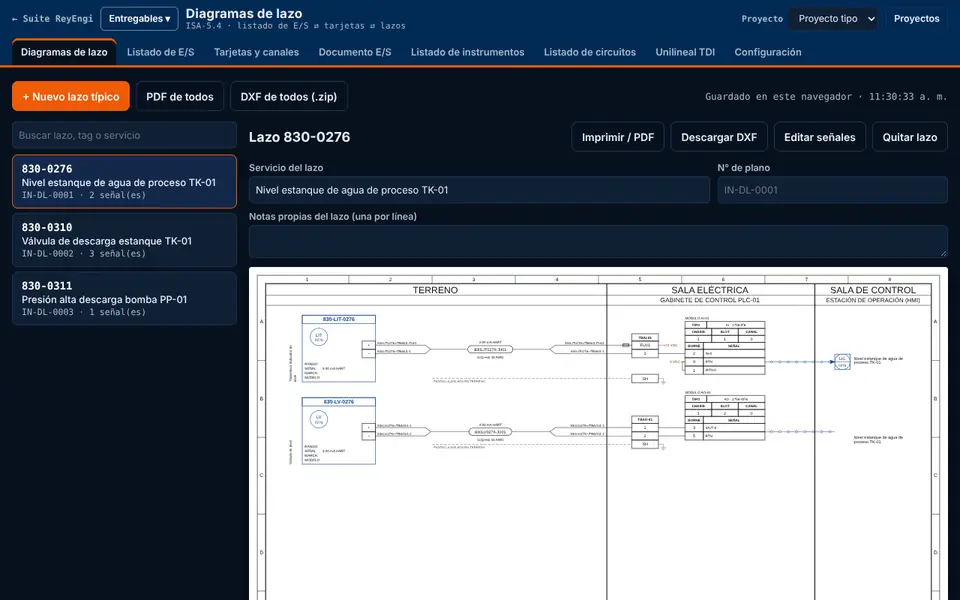
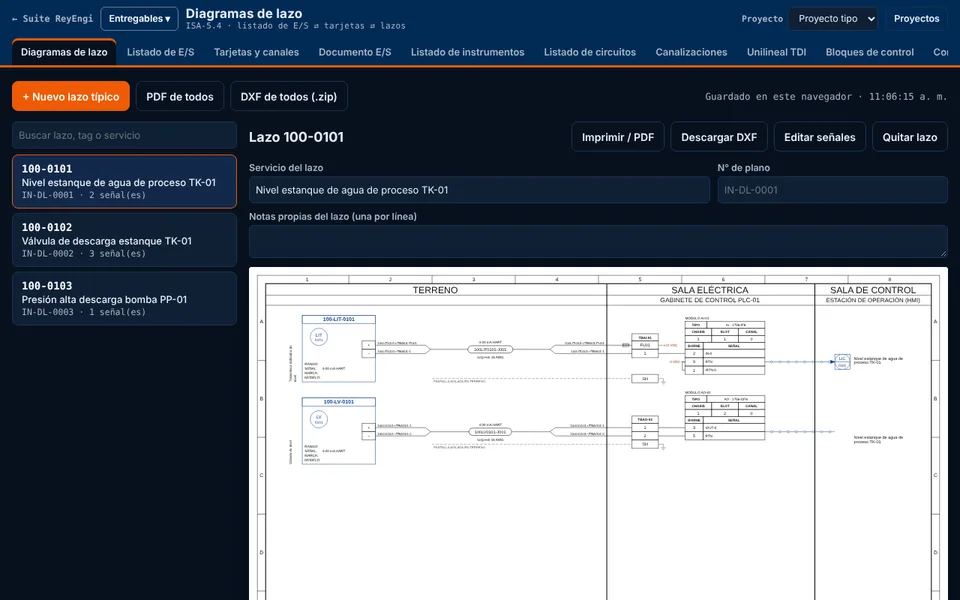
Aviso Suite ReyEngi con vistas previas; tags de demostración genéricos
- Aviso de la Suite ReyEngi (app Conduit y vista previa): miniaturas de diagrama de lazo, unilineal, detalle
  de montaje y documento, que se amplían al tocarlas
- Proyecto de demostración con tags genéricos (100-LIT-0101…) y ejemplos de ISA y hojas de datos sin códigos
  de proyectos reales; capturas de lazo, unilineal y listado regeneradas. sw visores-v103

Claude-Session: https://claude.ai/code/session_01EYaF9ibwybBPN96V5rGCY1

diff --git a/visores/lazos/app.js b/visores/lazos/app.js
@@ -35,9 +35,9 @@
   function ejemplo() {
     var d = { cfg: Object.assign({}, CFG0), modulos: [], senales: [], lazos: {}, revs: [{ rev: 'A', fecha: P.hoy ? P.hoy() : '', desc: 'EMITIDO PARA COORDINACIÓN INTERNA', por: '' }], over: {} };
     E = d;
-    crearTipico('ctrl', { area: '830', num: '0276', v: 'L', servicio: 'Nivel estanque de agua de proceso TK-01' }, true);
-    crearTipico('onoff', { area: '830', num: '0310', v: 'X', servicio: 'Válvula de descarga estanque TK-01' }, true);
-    crearTipico('sw', { area: '830', num: '0311', v: 'P', servicio: 'Presión alta descarga bomba PP-01' }, true);
+    crearTipico('ctrl', { area: '100', num: '0101', v: 'L', servicio: 'Nivel estanque de agua de proceso TK-01' }, true);
+    crearTipico('onoff', { area: '100', num: '0102', v: 'X', servicio: 'Válvula de descarga estanque TK-01' }, true);
+    crearTipico('sw', { area: '100', num: '0103', v: 'P', servicio: 'Presión alta descarga bomba PP-01' }, true);
     asignarAuto();
     return d;
   }
@@ -254,7 +254,7 @@
   var CAMPOS_CFG = [
     { g: 'Sistema de control', c: [{ k: 'proveedor', l: 'Proveedor / plataforma', prov: 1 }, { k: 'modelos.AI', l: 'Tarjeta AI por defecto', tipo: 'AI' }, { k: 'modelos.AO', l: 'Tarjeta AO por defecto', tipo: 'AO' }, { k: 'modelos.DI', l: 'Tarjeta DI por defecto', tipo: 'DI' }, { k: 'modelos.DO', l: 'Tarjeta DO por defecto', tipo: 'DO' }, { k: 'chasis', l: 'Chasis / rack por defecto' }, { k: 'slotInicial', l: 'Primer slot de E/S' }] },
     { g: 'Zonas del diagrama', c: [{ k: 'zonaTerreno', l: 'Zona de terreno' }, { k: 'zonaSala', l: 'Sala eléctrica' }, { k: 'gabinete', l: 'Gabinete' }, { k: 'zonaControl', l: 'Sala de control' }, { k: 'hmi', l: 'Estación de operación' }] },
-    { g: 'Planos y referencias', c: [{ k: 'prefijoPlano', l: 'Prefijo del N° de plano (ej. 3450-IN-DL-)' }, { k: 'primerPlano', l: 'Primer número correlativo' }, { k: 'prefijoUni', l: 'Prefijo del N° de plano unilineal (TDI)' }, { k: 'docIO', l: 'Listado de E/S (N° documento)' }, { k: 'docInst', l: 'Listado de instrumentos (N° documento)' }, { k: 'docCables', l: 'Listado de circuitos (N° documento)' }, { k: 'docPid', l: 'P&ID de referencia' }] },
+    { g: 'Planos y referencias', c: [{ k: 'prefijoPlano', l: 'Prefijo del N° de plano (ej. RE-001-IN-DL-)' }, { k: 'primerPlano', l: 'Primer número correlativo' }, { k: 'prefijoUni', l: 'Prefijo del N° de plano unilineal (TDI)' }, { k: 'docIO', l: 'Listado de E/S (N° documento)' }, { k: 'docInst', l: 'Listado de instrumentos (N° documento)' }, { k: 'docCables', l: 'Listado de circuitos (N° documento)' }, { k: 'docPid', l: 'P&ID de referencia' }] },
     { g: 'Alimentación y cables', c: [{ k: 'fuente24', l: 'Barra positiva 24 VDC' }, { k: 'fuente0', l: 'Barra 0 VDC' }, { k: 'tableroAlim', l: 'Tablero de alimentación de 4 hilos' }, { k: 'tension4h', l: 'Tensión de equipos de 4 hilos' }, { k: 'cableAnalogico', l: 'Cable analógico 2 hilos' }, { k: 'cable3h', l: 'Cable analógico 3 hilos' }, { k: 'cableDiscreto', l: 'Cable discreto' }, { k: 'cableMultipar', l: 'Cable multipar JB–gabinete' }, { k: 'sufCableA', l: 'Sufijo de cable analógico' }, { k: 'sufCableD', l: 'Sufijo de cable discreto' }] },
     { g: 'Señales por defecto', c: [{ k: 'senalAI', l: 'Señal AI' }, { k: 'senalAO', l: 'Señal AO' }, { k: 'senalDI', l: 'Señal DI' }, { k: 'senalDO', l: 'Señal DO' }] }
   ];
@@ -513,7 +513,7 @@
   }
   function dlgTipico() {
     dialogo('<label>Lazo típico<select id="tTip">' + Object.keys(TIPICOS).map(function (k) { return '<option value="' + k + '">' + esc(TIPICOS[k].n) + '</option>'; }).join('') + '</select></label>' +
-      '<div class="fila3"><label>Área<input id="tArea" value="' + esc((lazoSel() && ISA.analizar(lazoSel().crudas[0].tag).area) || '') + '" placeholder="830"></label><label>N° de lazo<input id="tNum" placeholder="0276" required></label>' +
+      '<div class="fila3"><label>Área<input id="tArea" value="' + esc((lazoSel() && ISA.analizar(lazoSel().crudas[0].tag).area) || '') + '" placeholder="100"></label><label>N° de lazo<input id="tNum" placeholder="0276" required></label>' +
       '<label>Variable (ISA)<select id="tVar">' + Object.keys(ISA.VAR).map(function (k) { return '<option value="' + k + '"' + (k === 'F' ? ' selected' : '') + '>' + k + ' · ' + esc(ISA.VAR[k]) + '</option>'; }).join('') + '</select></label></div>' +
       '<label>Servicio<input id="tServ" placeholder="Flujo de agua a estanque TK-01"></label><p class="ayuda" id="tPrev"></p>', function () {
       var o = { area: $('#tArea').value.trim(), num: $('#tNum').value.trim(), v: $('#tVar').value, servicio: $('#tServ').value.trim() };

diff --git a/visores/conduit-app/app/inicio.js b/visores/conduit-app/app/inicio.js
@@ -25,7 +25,7 @@
     $('#pLic').addEventListener('click', function () { L.abrir(); });
     L.estado().then(function (s) {
       if (!s || !s.ok) return;
-      $('#licTxt').textContent = '· Licencia de ' + s.cliente + ', vigente hasta el ' + s.vence + '.';
+      $('#licTxt').textContent = s.permanente ? '· Licencia permanente de ' + s.cliente + '.' : '· Licencia de ' + s.cliente + ', vigente hasta el ' + s.vence + '.';
       if (s.dias <= (s.plan === '30d' ? 7 : 30)) {
         var av = $('#aviso'); av.hidden = false;
         av.innerHTML = '<span>Tu licencia vence en <b>' + s.dias + ' día' + (s.dias === 1 ? '' : 's') + '</b> (' + s.vence + '). Renueva para seguir usando la app.</span><button type="button" class="btn">Renovar</button>';
@@ -44,6 +44,9 @@
       '<p class="rs-k">ReyEngi · Ingeniería I&amp;C para minería</p>' +
       '<h2 id="rsTit">Esta app es parte de una suite completa de ingeniería de instrumentación y control</h2>' +
       '<p class="rs-l">Una sola base de proyecto para la ingeniería conceptual, básica y de detalle: cambias un tag y se actualiza en todos los documentos.</p>' +
+      '<div class="rs-vp" role="list">' + [['vp-lazo.webp', 'Diagrama de lazo ISA-5.4'], ['vp-unilineal.webp', 'Diagrama unilineal TDI'], ['vp-montaje.webp', 'Detalle de montaje A3'], ['vp-documento.webp', 'Documentos con rótulo']]
+        .map(function (v) { return '<button type="button" role="listitem" class="rs-mini" data-img="' + v[0] + '" aria-label="Ampliar: ' + v[1] + '"><img src="' + v[0] + '" alt="" loading="lazy"><span>' + v[1] + '</span></button>'; }).join('') + '</div>' +
+      '<div class="rs-zoom" hidden><img alt=""><button type="button" class="rs-zx">Volver</button></div>' +
       '<ul>' + ['Listado de instrumentos, hojas de datos ISA-TR20 y especificaciones', 'Listado de E/S y diagramas de lazo ISA-5.4 en PDF y DXF', 'Tarjetas por fabricante, conexionado y listado de circuitos', 'Ductos, escalerillas y unilineales según RIC (SEC)', 'Más de 40 detalles típicos de montaje en 3D con plano A3', 'Requisiciones de compra desde el listado de instrumentos']
         .map(function (x) { return '<li>' + x + '</li>'; }).join('') + '</ul>' +
       '<p class="rs-l">Pensada para proyectos mineros en operación (brownfield) y plantas nuevas. Disponible para empresas de ingeniería, mandantes y equipos de proyecto.</p>' +
@@ -52,7 +55,13 @@
     document.body.appendChild(b); document.body.appendChild(d);
     b.addEventListener('click', function () { d.showModal(); });
     d.querySelector('.rs-x').addEventListener('click', function () { d.close(); });
-    d.addEventListener('click', function (e) { if (e.target === d) d.close(); });
+    d.addEventListener('click', function (e) {
+      if (e.target === d) { d.close(); return; }
+      var m = e.target.closest('.rs-mini'), z = d.querySelector('.rs-zoom');
+      if (m) { z.querySelector('img').src = m.dataset.img; z.querySelector('img').alt = m.getAttribute('aria-label').replace('Ampliar: ', ''); z.hidden = false; z.querySelector('.rs-zx').focus(); return; }
+      if (e.target.closest('.rs-zx') || e.target.closest('.rs-zoom')) { z.hidden = true; }
+    });
+    d.addEventListener('close', function () { d.querySelector('.rs-zoom').hidden = true; });
   })();
   // PDF A3 directo desde la app de escritorio (la lámina se arma en #imp y se imprime a archivo)
   if (window.reyPdf) window.print = function () { var c = A.E().cfg; window.reyPdf.guardar('Ductos ' + (c.proyecto || '').replace(/[\\/:*?"<>|]+/g, '-')); };

diff --git a/visores/conduit-app/app/app.css b/visores/conduit-app/app/app.css
@@ -16,7 +16,7 @@ main { padding: 14px 18px 30px; }
 #rsBtn { position: fixed; left: 14px; bottom: 14px; z-index: 55; display: flex; align-items: center; gap: 8px; padding: 7px 14px 7px 8px; border-radius: 22px;
   background: #022A55; color: #fff; border: 1.5px solid #E8A317; font: 600 12.5px system-ui, "Segoe UI", sans-serif; cursor: pointer; box-shadow: 0 6px 18px rgba(0,0,0,.4); }
 #rsBtn img { height: 22px; width: auto; } #rsBtn:hover { background: #0a3a70; } #rsBtn:focus-visible { outline: 2px solid #E8A317; outline-offset: 2px; }
-#rsDlg { width: min(520px, calc(100vw - 32px)); border: 0; border-radius: 14px; padding: 22px 24px 20px; background: #0e1f33; color: #e8eef5; border-top: 4px solid #E8A317;
+#rsDlg { width: min(640px, calc(100vw - 32px)); max-height: calc(100vh - 32px); overflow: auto; border: 0; border-radius: 14px; padding: 22px 24px 20px; background: #0e1f33; color: #e8eef5; border-top: 4px solid #E8A317;
   box-shadow: 0 24px 60px rgba(0,0,0,.55); font: 14px/1.5 system-ui, "Segoe UI", sans-serif; }
 #rsDlg::backdrop { background: rgba(0,0,0,.55); }
 #rsDlg .rs-x { position: absolute; top: 10px; right: 10px; background: transparent; color: #cfe0f2; border: 1.5px solid #3a5a80; border-radius: 8px; min-width: 32px; min-height: 32px; cursor: pointer; }
@@ -29,3 +29,14 @@ main { padding: 14px 18px 30px; }
 #rsDlg .rs-wsp:hover { background: #23b061; }
 #rsDlg .rs-p { margin: 8px 0 0; font-size: 12px; color: #9fb0c3; text-align: center; }
 @media (max-width: 600px) { #rsBtn span { display: none; } #rsBtn { padding: 7px; } }
+
+#rsDlg .rs-vp { display: grid; grid-template-columns: repeat(4, minmax(0, 1fr)); gap: 8px; margin: 2px 0 14px; }
+#rsDlg .rs-mini { display: flex; flex-direction: column; gap: 5px; padding: 0; background: transparent; border: 0; cursor: zoom-in; color: #cdd8e4; font: 600 11px/1.25 system-ui, "Segoe UI", sans-serif; text-align: left; min-height: 0; }
+#rsDlg .rs-mini img { width: 100%; aspect-ratio: 4 / 3; object-fit: cover; object-position: top left; background: #fff; border-radius: 6px; border: 1.5px solid #3a5a80; display: block; }
+#rsDlg .rs-mini:hover img, #rsDlg .rs-mini:focus-visible img { border-color: #E8A317; }
+#rsDlg .rs-mini:focus-visible { outline: none; }
+#rsDlg .rs-zoom { position: fixed; inset: 0; background: rgba(5, 12, 22, .92); display: flex; flex-direction: column; align-items: center; justify-content: center; gap: 12px; padding: 20px; z-index: 5; }
+#rsDlg .rs-zoom[hidden] { display: none; }
+#rsDlg .rs-zoom img { max-width: 100%; max-height: calc(100% - 60px); border-radius: 8px; background: #fff; }
+#rsDlg .rs-zx { background: #E8A317; color: #1a1205; border: 0; border-radius: 8px; padding: 9px 18px; font: 700 13px system-ui, sans-serif; cursor: pointer; }
+@media (max-width: 600px) { #rsDlg .rs-vp { grid-template-columns: repeat(2, minmax(0, 1fr)); } }

diff --git a/visores/sw.js b/visores/sw.js
@@ -1,5 +1,5 @@
 /* Guarda la app en el teléfono para usarla sin internet. Cambia VERSION al publicar cambios. */
-const VERSION = 'visores-v102';
+const VERSION = 'visores-v103';
 const FILES = ['./', './index.html', './manifest.webmanifest', './icon-180.png', './icon-192.png', './icon-512.png', './icon-maskable-512.png',
   './exportar-3d.js', './lazos/', './lazos/index.html', './lazos/isa.js', './lazos/tarjetas.js', './lazos/dibujo.js', './lazos/app.js', './lazos/docio.js', './lazos/ric.js', './lazos/unilineal.js', './lazos/bloques.js', './lazos/conduit.js', './normas.js', './normativa/', './normativa/index.html', './normativa/normativa.js', './espesador/', './espesador/index.html', './espesador/modelo.js', './espesador/planta.js', './espesador/vista3d.js', './espesador/app.js', './requisiciones/', './requisiciones/index.html', './requisiciones/tipos.js', './requisiciones/rq.js', './requisiciones/app.js', './equipos/plano-montaje.js', './equipos/visores-equipos.js', './suite.css', './suite.js', './equipos/miniaturas.js', './proyectos.js', './acceso.js', './proyectos/', './pid/', './piping/', './piping/index.html', './piping/piping.js', './piping/sim.js', './piping/valvula3d.js', './lib3d.js', './pid/index.html', './pid/pid.js', './pid/vendor/pdf.min.mjs', './pid/vendor/pdf.worker.min.mjs', './proyectos/index.html', './especificaciones/', './especificaciones/index.html', './especificaciones/plantillas-et.js', './especificaciones/plantillas-et2.js', './especificaciones/plantillas-et3.js', './especificaciones/docx.js', './especificaciones/et.js', './hojas-datos/', './hojas-datos/index.html', './hojas-datos/plantillas.js', './hojas-datos/plantillas2.js', './hojas-datos/plantillas3.js', './hojas-datos/plantillas4.js', './hojas-datos/xlsx.js', './hojas-datos/hojas.js', '../img/logo-reyengi.png'];
 self.addEventListener('install', (e) => { e.waitUntil(caches.open(VERSION).then((c) => c.addAll(FILES)).then(() => self.skipWaiting())); });

diff --git a/visores/hojas-datos/plantillas2.js b/visores/hojas-datos/plantillas2.js
@@ -109,7 +109,7 @@
       { s: 'TRANSMISOR', r: [f('Señal de salida', '', '4-20 mA + HART'), f('Relés', '', '2 SPDT'), f('Alimentación', '', '120 VAC 50 Hz'), f('Indicador local', '', 'LCD'), f('Grado de protección', '', 'IP66')] },
       REQUISITOS([f('Soluciones de calibración', '', 'Requeridas')])],
     aplicacion: { columnas: [C_TAG, C_SERV, { t: 'FLUIDO', w: 12 }, { t: 'RANGO (µS/cm)', w: 11 }, { t: 'MONTAJE', w: 12 }, C_PID],
-      filas: [['4100-AIT-0310', 'Conductividad agua recuperada', 'Agua', '0 – 5.000', 'En línea', '—']] }
+      filas: [['200-AIT-0201', 'Conductividad agua recuperada', 'Agua', '0 – 5.000', 'En línea', '—']] }
   });
 
   add('Densidad y análisis', {

diff --git a/visores/hojas-datos/plantillas.js b/visores/hojas-datos/plantillas.js
@@ -776,7 +776,7 @@
       columnas: [C_TAG, C_SERV, { t: 'TIPO', w: 14 }, { t: 'DN (pulg)', w: 7 }, { t: 'FLUJO NOR. (m³/h)', w: 9 },
         { t: 'P1 (kPa g)', w: 8 }, { t: 'P2 (kPa g)', w: 8 }, { t: 'TRANSMISOR POSICIÓN', w: 10 }, C_PID, C_DET],
       filas: [
-        ['4100-PCV-0310', 'Reducción agua a planta', 'Autopilotada', '8', '200', '1.200', '450', 'Sí', '—', '16-A'],
+        ['200-PCV-0202', 'Reducción agua a planta', 'Autopilotada', '8', '200', '1.200', '450', 'Sí', '—', '16-A'],
         ['4200-PCV-0320', 'Reducción agua de servicios', 'Proporcional 3:1', '4', '40', '900', '300', 'No', '—', '16-B']
       ]
     },

diff --git a/visores/lazos/isa.js b/visores/lazos/isa.js
@@ -1,5 +1,5 @@
 /* Identificación de instrumentos según ANSI/ISA-5.1-2009 · ReyEngi
- * Tag típico de proyecto: ÁREA-LETRAS-NÚMERO[SUFIJO], por ejemplo 830-LIT-0276 o 3450-PDSH-2053A.
+ * Tag típico de proyecto: ÁREA-LETRAS-NÚMERO[SUFIJO], por ejemplo 100-LIT-0101 o 200-PDSH-0201A.
  */
 (function () {
   'use strict';
